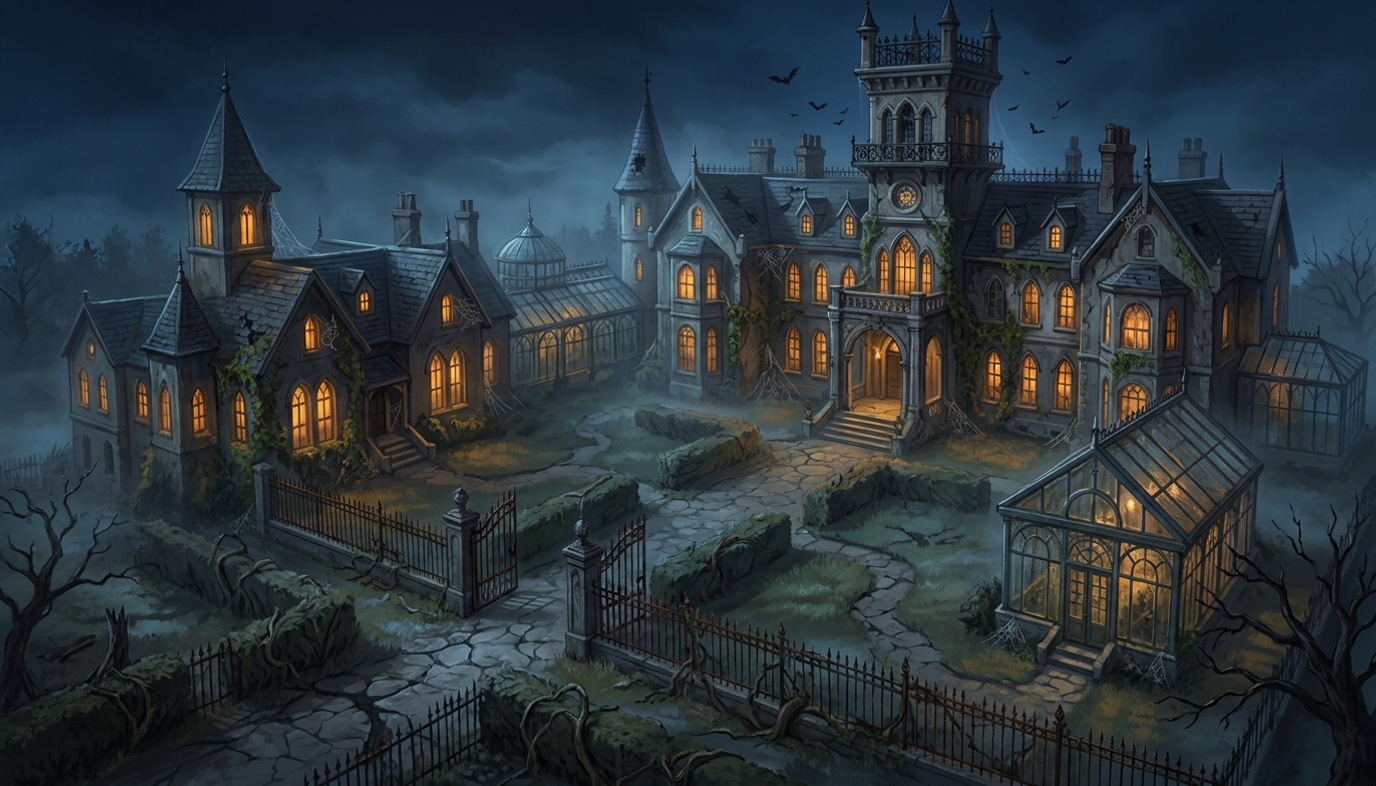
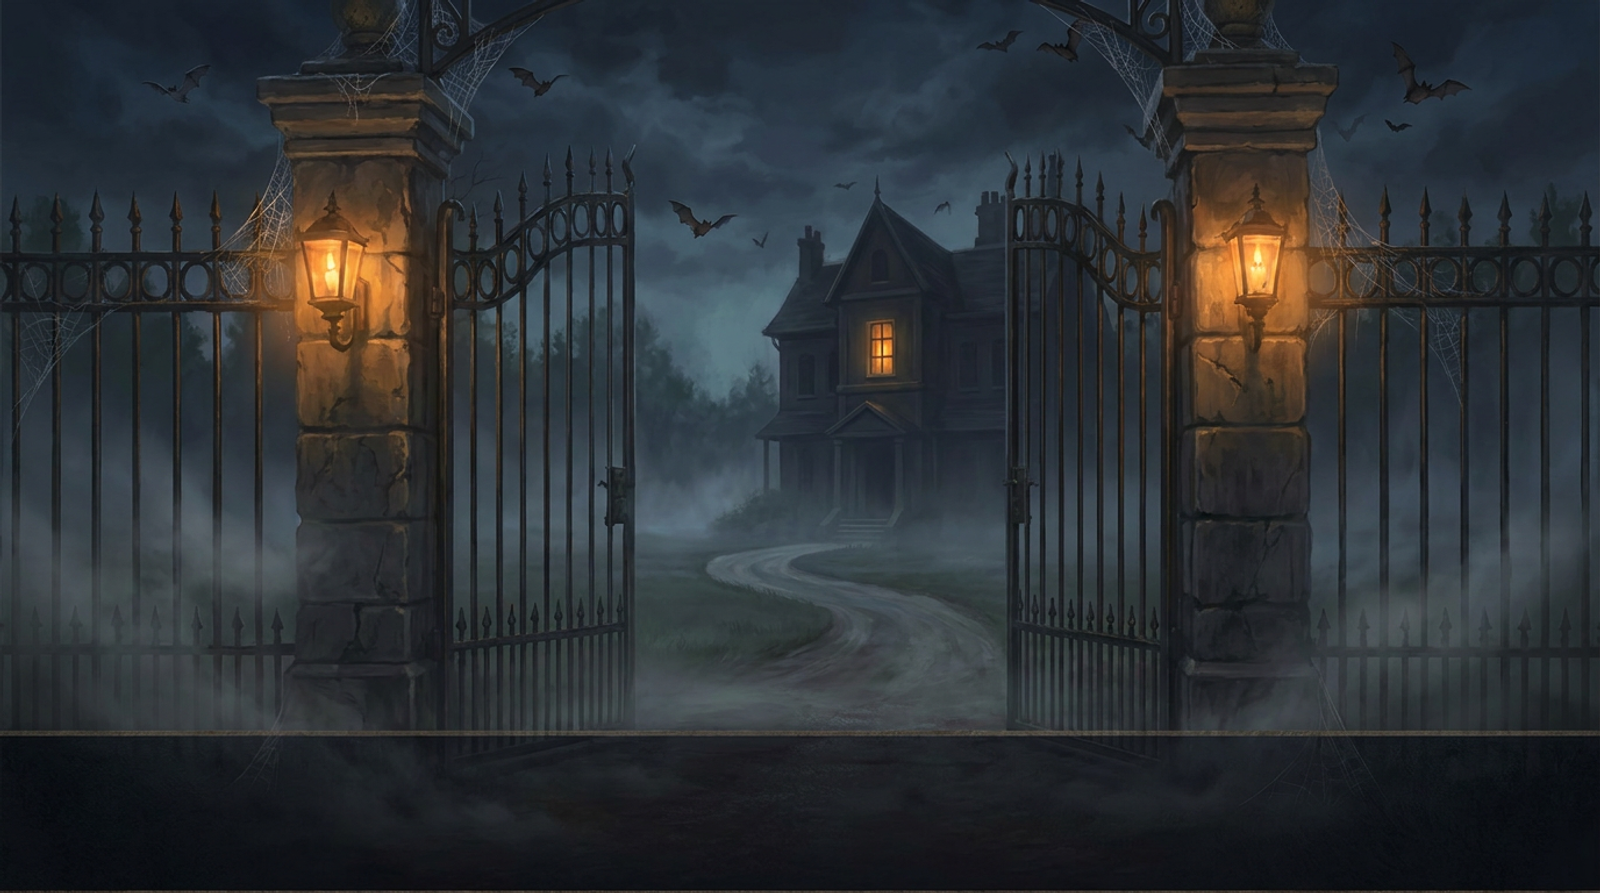
wip 0.112.0: wide gates and gallery market scenes for landscape, the stall panel breathes

diff --git a/index.html b/index.html
@@ -868,9 +868,12 @@
      controls dock as the panel's bottom rail. In portrait the shop is
      two-up (no orphan card), the panel stretches, and the stall pins
      to the bottom so no raw backdrop band is left mid-screen. */
+  /* 0.112.0: the stall panel goes translucent shadowed wood so the painted
+     hallway breathes through it instead of a flat brown box covering it */
   .sec.secmarket{border-radius:14px;padding:2px 10px 10px;
-    background:linear-gradient(180deg, rgba(46,32,18,.92), rgba(26,17,9,.94) 90%);
-    box-shadow:inset 0 1.5px 0 rgba(255,255,255,.07), inset 0 0 0 1px rgba(216,162,74,.18), 0 8px 18px rgba(0,0,0,.4);}
+    background:linear-gradient(180deg, rgba(32,24,26,.72), rgba(18,13,17,.8) 90%);
+    box-shadow:inset 0 1.5px 0 rgba(220,200,255,.06), inset 0 0 0 1px rgba(160,120,60,.24), 0 8px 18px rgba(0,0,0,.4);
+    backdrop-filter:blur(3px);-webkit-backdrop-filter:blur(3px);}
   .secmarket .controls{border-top:1px solid rgba(216,162,74,.16);padding-top:9px;margin-top:11px;}
   .secmarket .controls .btn{flex:1;max-width:none;}
   /* Gate Camp: the boss-inspect strip above the Quartermaster offers */